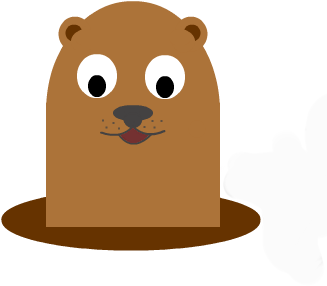
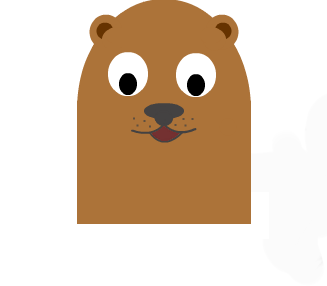
moley

Changed region(s): [[0.0, 0.0, 0.7951, 0.8951]]

diff --git a/whack-a-mole.html b/whack-a-mole.html
@@ -24,27 +24,25 @@
     .hole {
       width: 120px;
       height: 80px;
-      background: #ccc;
-      /* elliptical border for oblong shape */
-      border-radius: 60px / 40px;
+      background: #8B4513;         /* saddle‑brown to match your mole base */
+      border-radius: 60px / 40px;  /* oblong shape */
       position: relative;
-      overflow: hidden;
+      overflow: visible;           /* allow mole to show above rim */
       cursor: pointer;
     }
     .mole {
       position: absolute;
-      /* start hidden below the hole */
-      bottom: -60px;
+      bottom: 0;                   /* aligns mole base with hole rim */
       left: 50%;
       transform: translateX(-50%);
       width: 100px;
       height: 100px;
       transition: bottom 0.2s ease-out;
       user-select: none;
+      z-index: 10;                 /* sit above the hole */
     }
-    .mole.visible {
-      /* pop up so that the mole aligns nicely with the hole rim */
-      bottom: 0;
+    .mole.hidden {
+      bottom: -80px;               /* fully hidden below hole */
     }
     #score, #time {
       font-size: 1.2rem;
@@ -69,41 +67,46 @@
     const scoreEl = document.getElementById('score');
     const timeEl  = document.getElementById('time');
     const startBtn= document.getElementById('start');
-    let score=0, timeLeft=30, timerId, moleTimer;
+    let score = 0, timeLeft = 30, timerId, moleTimer;
 
     // Build 9 oblong holes
-    for(let i=0;i<9;i++){
-      const hole=document.createElement('div');
-      hole.className='hole';
+    for (let i = 0; i < 9; i++) {
+      const hole = document.createElement('div');
+      hole.className = 'hole';
       holesEl.appendChild(hole);
     }
 
-    function showMole(){
+    function showMole() {
       // remove any existing mole
-      document.querySelectorAll('.hole .mole').forEach(m=>m.remove());
+      document.querySelectorAll('.hole .mole').forEach(m => m.remove());
 
       const holeEls = document.querySelectorAll('.hole');
-      const idx = Math.floor(Math.random()*holeEls.length);
+      const idx = Math.floor(Math.random() * holeEls.length);
+
       const mole = document.createElement('img');
       mole.src = 'mole.png';
       mole.alt = 'mole';
       mole.className = 'mole';
-      // whack handler
+      mole.classList.add('hidden');
+
+      // on click, bump score and remove mole immediately
       mole.addEventListener('click', () => {
         score++;
         scoreEl.textContent = score;
         mole.remove();
       });
+
       holeEls[idx].appendChild(mole);
 
-      // trigger the pop‑up on next frame
+      // wait one frame then pop up
       requestAnimationFrame(() => {
-        mole.classList.add('visible');
+        mole.classList.remove('hidden');
       });
     }
 
-    function startGame(){
-      score=0; timeLeft=30;
+    function startGame() {
+      score = 0;
+      timeLeft = 30;
       scoreEl.textContent = 0;
       timeEl.textContent = 30;
       startBtn.disabled = true;
@@ -111,16 +114,16 @@
       showMole();
       moleTimer = setInterval(showMole, 800);
 
-      timerId = setInterval(()=>{
+      timerId = setInterval(() => {
         timeLeft--;
         timeEl.textContent = timeLeft;
-        if(timeLeft <= 0){
+        if (timeLeft <= 0) {
           clearInterval(timerId);
           clearInterval(moleTimer);
-          alert('Time up! Your score: '+score);
+          alert('Time up! Your score: ' + score);
           startBtn.disabled = false;
         }
-      },1000);
+      }, 1000);
     }
 
     startBtn.addEventListener('click', startGame);
